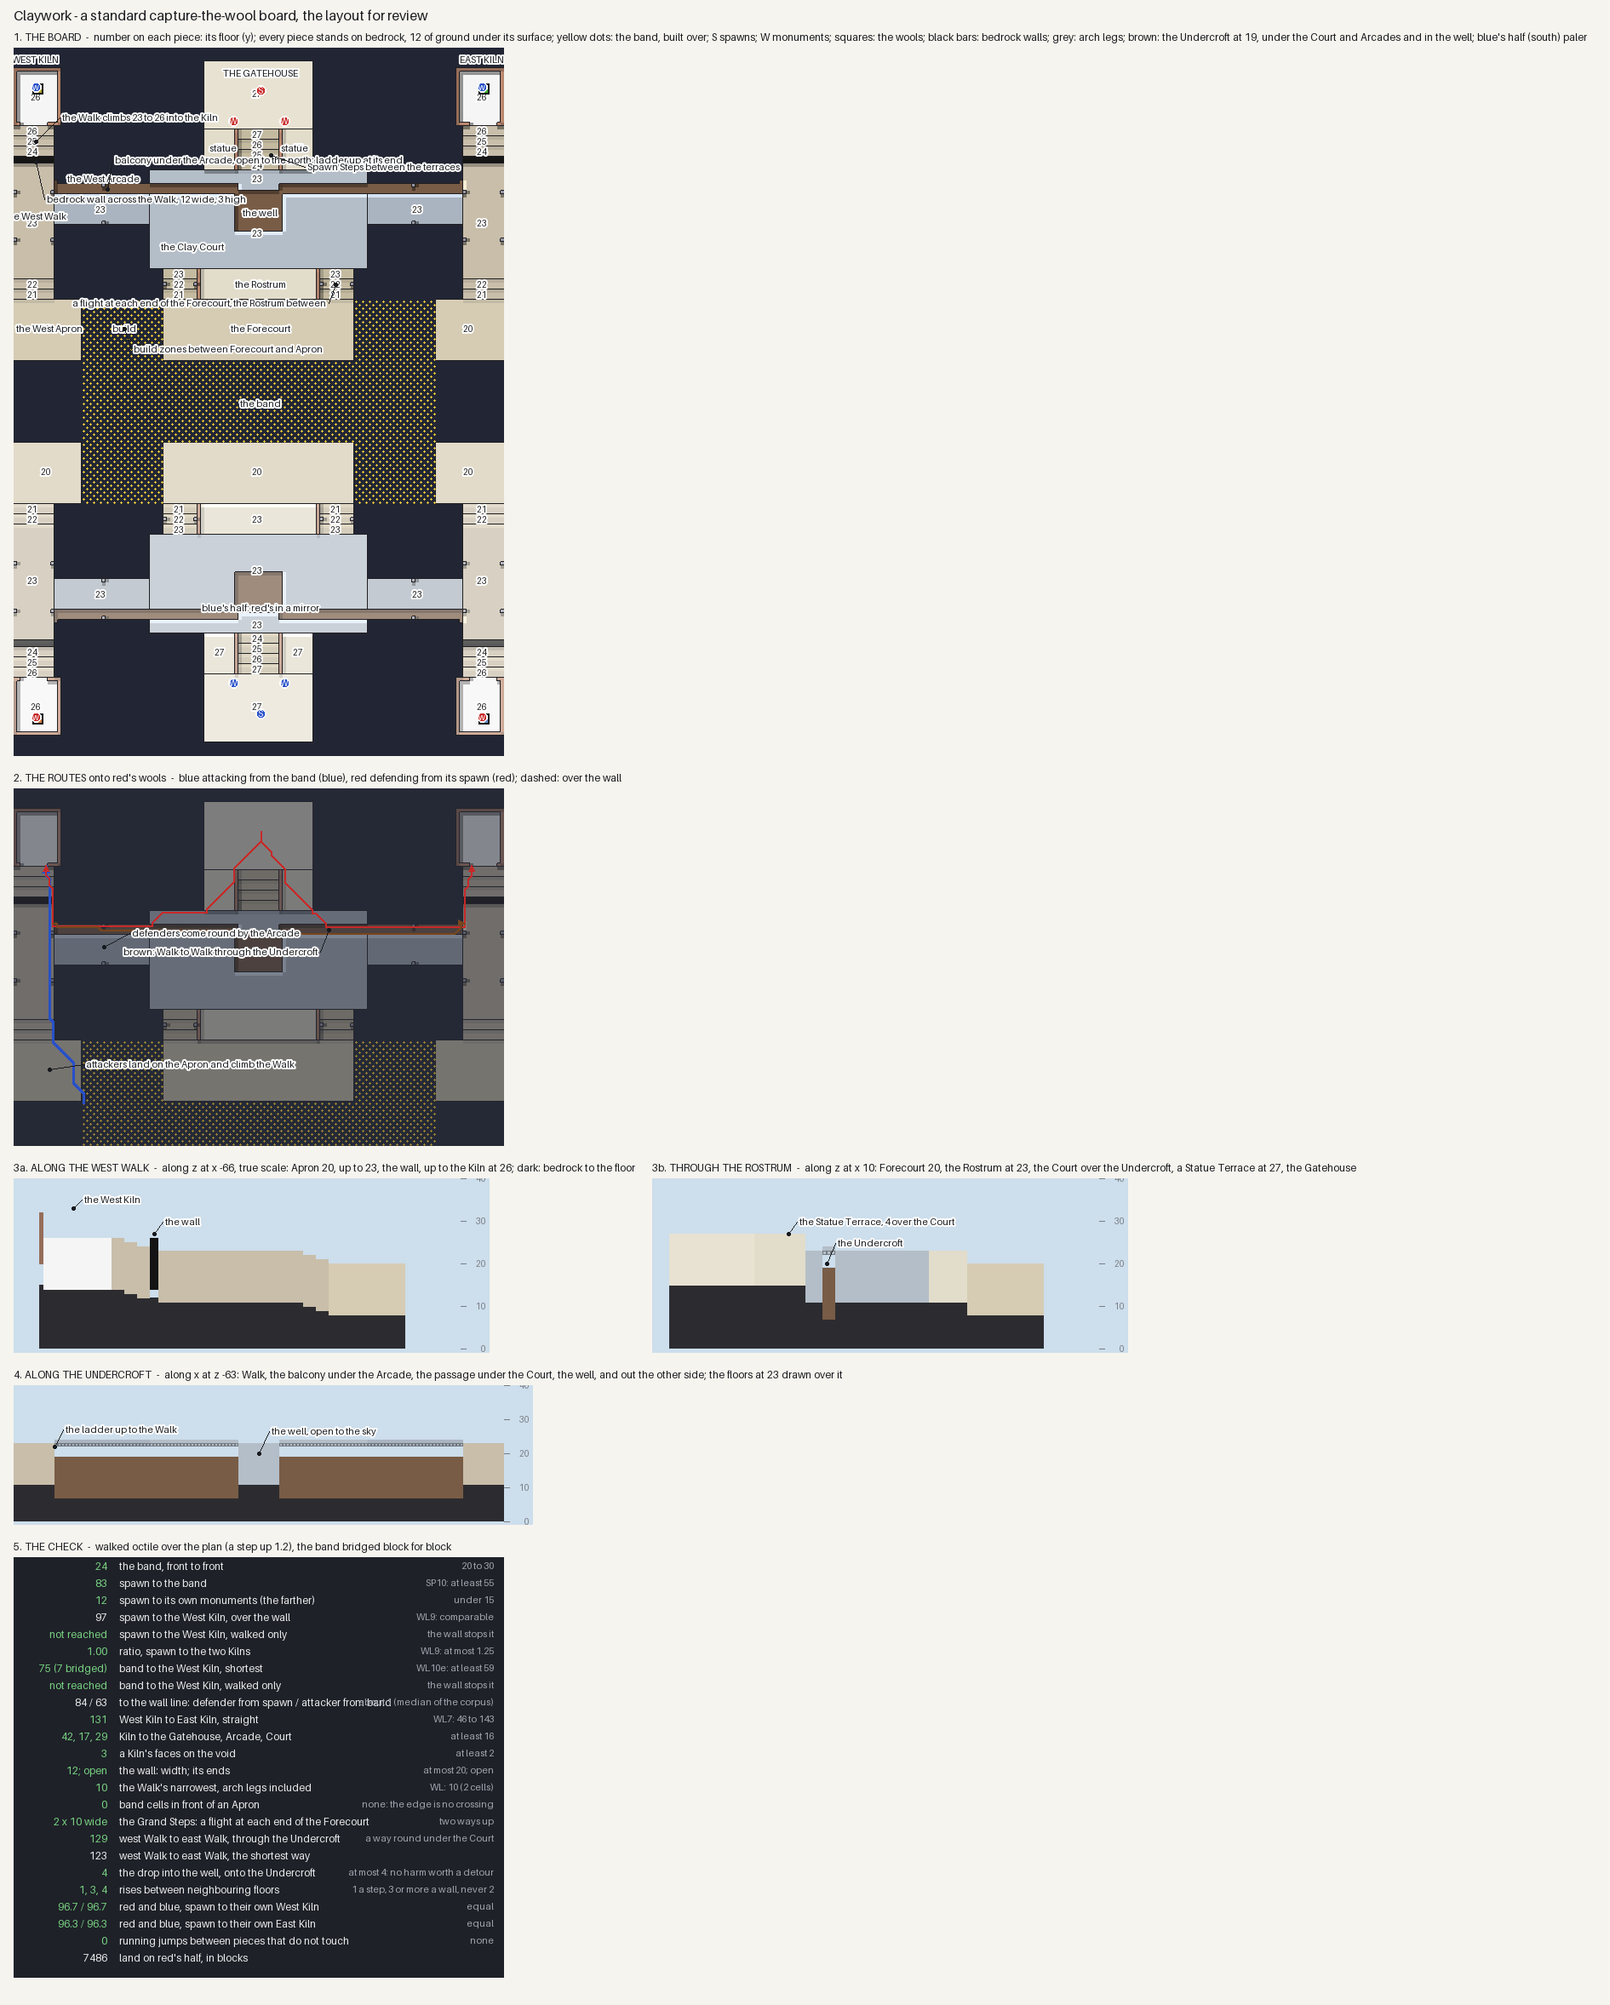
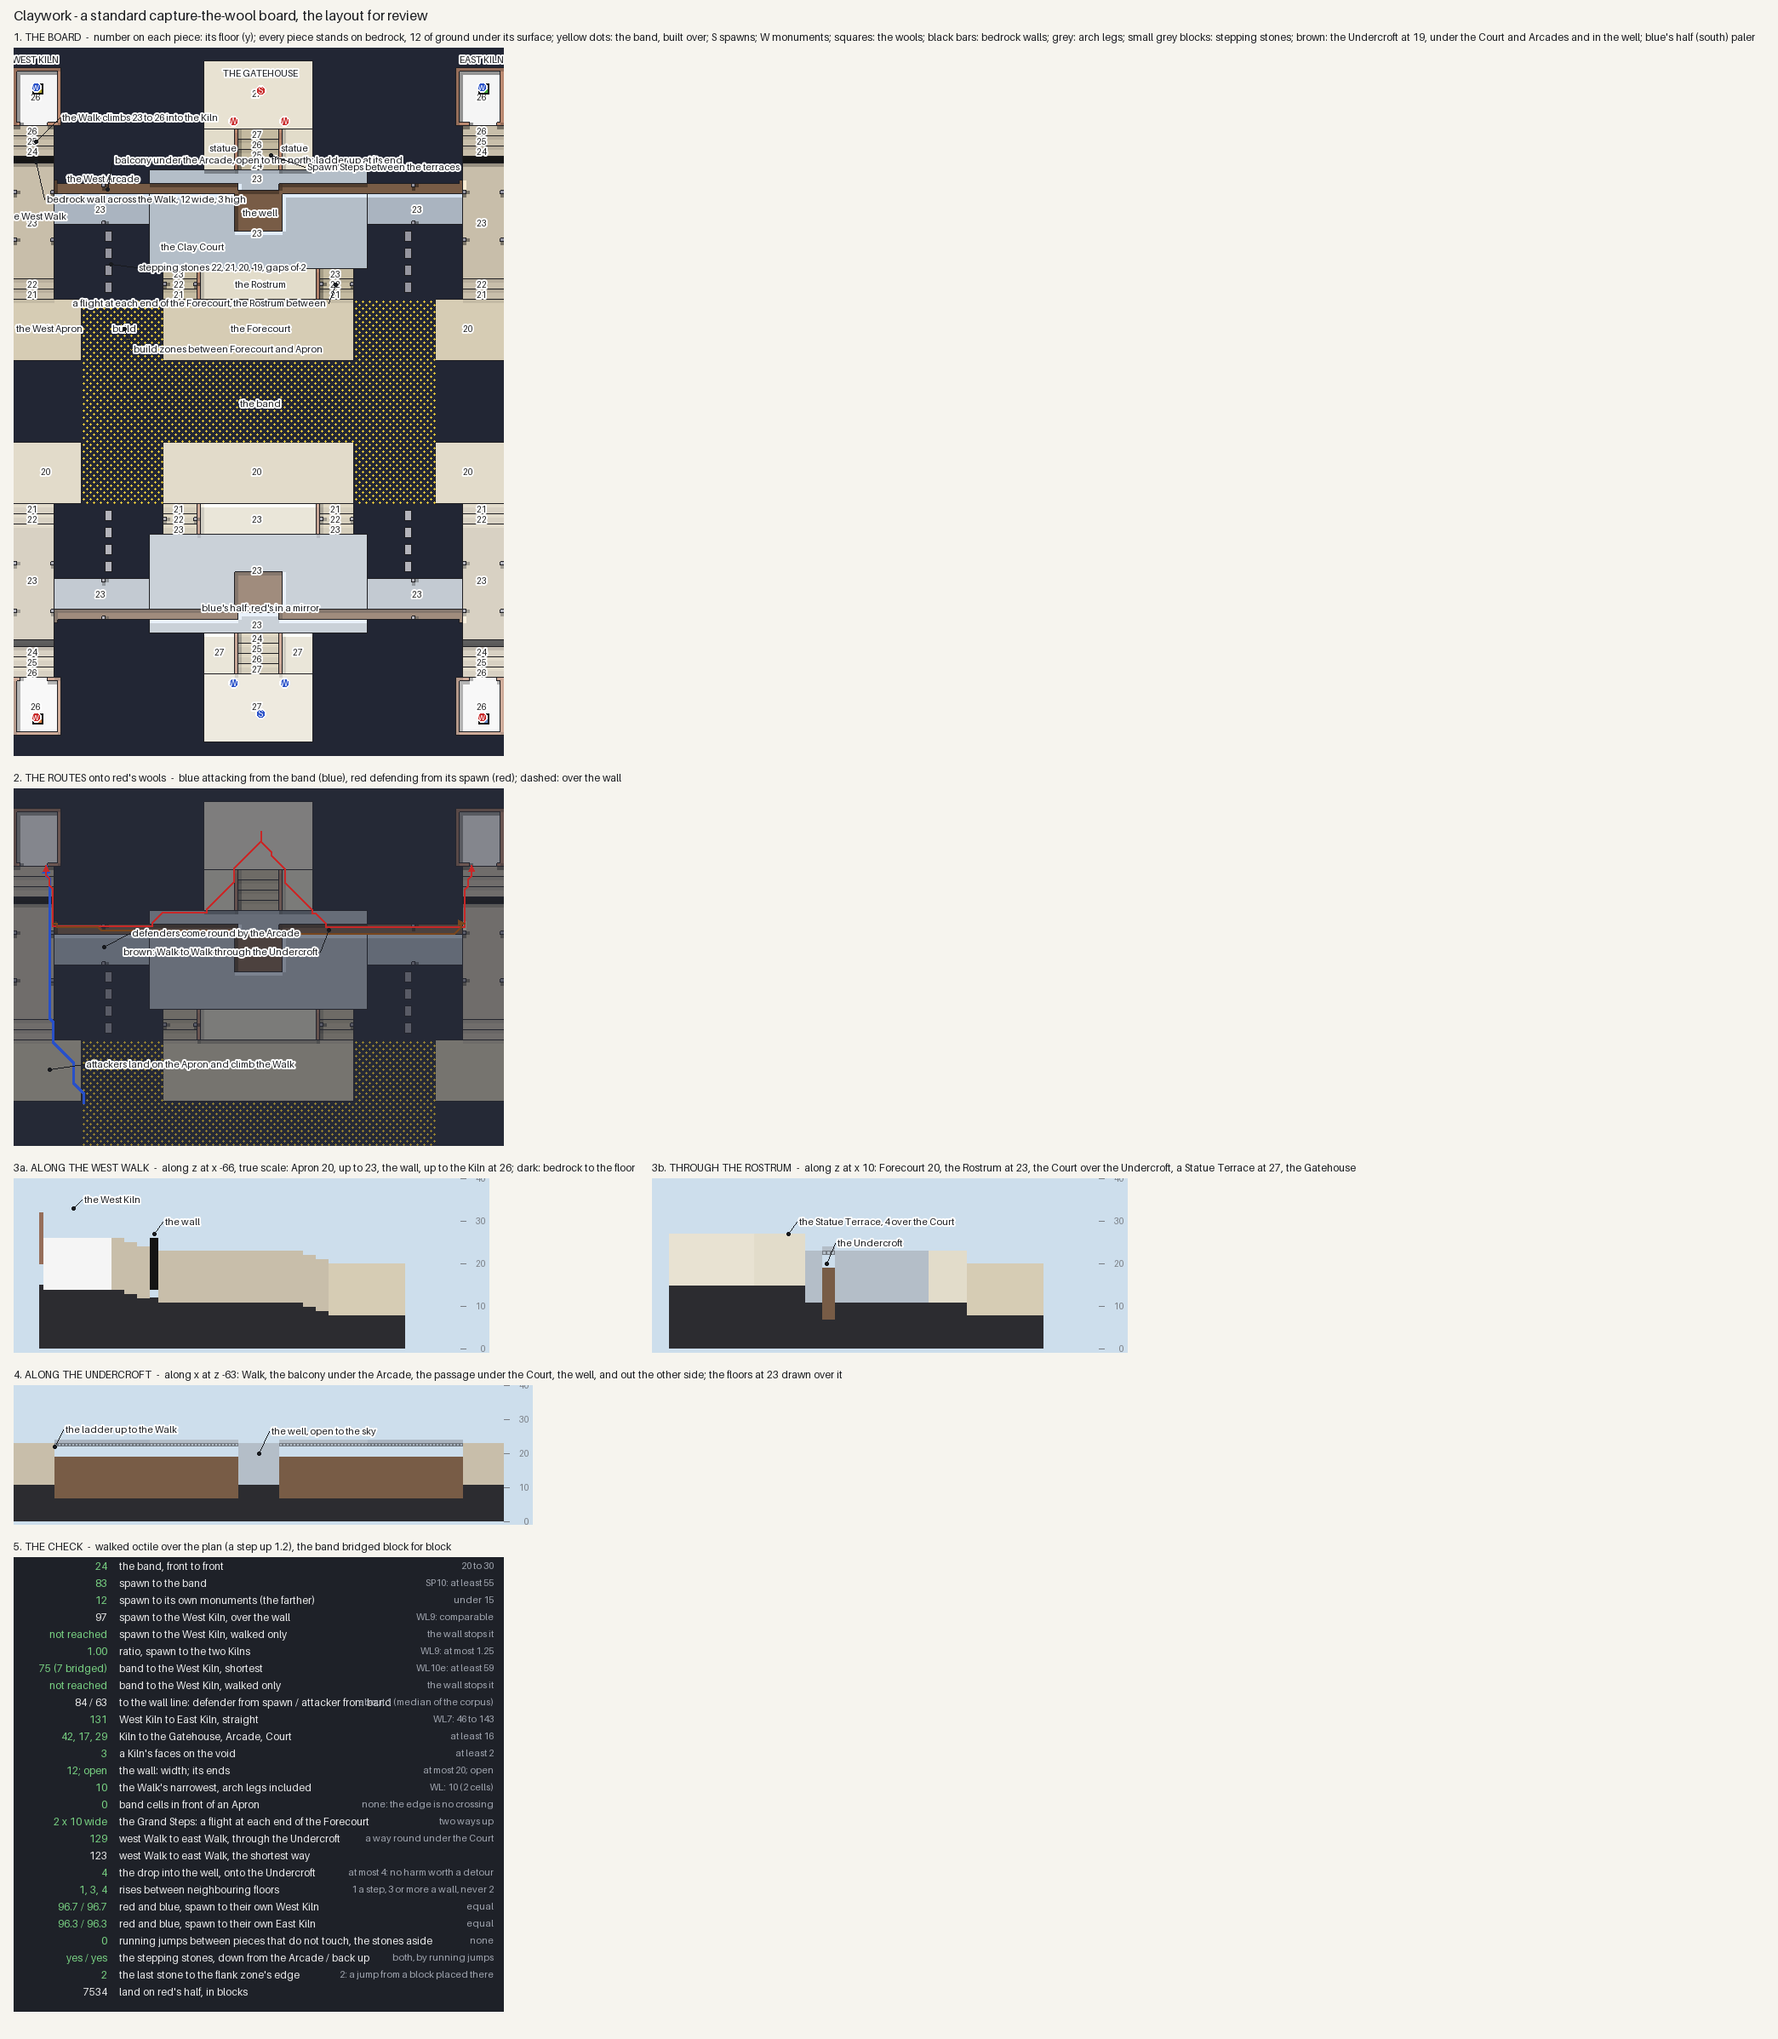
Claywork v4: stepping stones from each Arcade toward its flank zone
Four 2 x 3 stones in the void in front of each Arcade at 22, 21, 20, 19,
every gap two (the most a running jump one up clears), the last two short
of the flank zone; checked both ways by running jumps. The well stays a
way down only. v3 sketch kept.

Claude-Session: https://claude.ai/code/session_01JFykgZF2FRCqGGugXE9LUG

Changed region(s): [[0.0, 0.0, 0.7488, 0.9919]]

diff --git a/freeform/lib/boards/claywork/scripts/plan.py b/freeform/lib/boards/claywork/scripts/plan.py
@@ -87,7 +87,15 @@ ARCHES = [("the Grand Steps' arch", "x", (-28, -19), -35), ("the Walk's first ar
 BAND = (-52, -12, 51, 11)
 FLANK = (-52, -30, -29, -13)
 
-# the Undercroft: a floor UNDER under the Court and the Arcades; the well is its pit, open to the sky
+# the stepping stones: four in the void between each Arcade and the flank zone in front of it, two wide and a
+# tread deep, stepping down a level a stone (22, 21, 20, 19) toward the front as the Walk beside them does. Every
+# gap is two, the most a running jump one block up clears, so they are crossed both ways: an attacker's way back,
+# from a block placed at the zone's edge, two short of the last stone.
+STONES = [((-45, -50, -44, -48), 22), ((-45, -45, -44, -43), 21), ((-45, -40, -44, -38), 20),
+          ((-45, -35, -44, -33), 19)]
+
+# the Undercroft: a floor UNDER under the Court and the Arcades; the well is its pit, open to the sky, a way down
+# only: nothing climbs out of it but the ladders at the Walks
 UNDER = HUB - 4
 PASSAGE = (-60, -64, -7, -62)              # three wide, from the Arcade's far end to the well, under the floors
 LADDER = (-60, -65)                        # the landing past the Arcade's north edge; a ladder up the Walk's face
@@ -96,14 +104,14 @@ SPAWN_AT = (0, SPAWN + 1, -92)
 MONUMENTS = [(-8, -83), (7, -83)]          # red's two, on the Gatehouse's front edge, west and east
 OBSERVER_AT = (0, 50, 0)
 
-COLOURS = {"void": (34, 38, 52), "front": (214, 204, 180), "apron": (214, 204, 180), "rostrum": (226, 220, 202), "under": (120, 92, 70),
+COLOURS = {"void": (34, 38, 52), "front": (214, 204, 180), "apron": (214, 204, 180), "rostrum": (226, 220, 202), "under": (120, 92, 70), "stone": (150, 150, 160),
            "terrace": (226, 220, 202), "parapet": (150, 110, 90), "steps": (196, 186, 160),
            "hub": (180, 190, 200), "wing": (170, 180, 192), "walk": (200, 190, 170), "neck": (196, 186, 160),
            "spawn": (232, 226, 210), "kiln": (245, 245, 245), "kilnwall": (150, 110, 90),
            "barrier": (20, 20, 20), "arch": (120, 120, 130)}
-KINDS = ["void", "front", "rostrum", "apron", "terrace", "parapet", "under", "steps", "hub", "wing", "walk", "neck", "spawn", "kiln", "kilnwall",
+KINDS = ["void", "front", "rostrum", "apron", "terrace", "parapet", "under", "stone", "steps", "hub", "wing", "walk", "neck", "spawn", "kiln", "kilnwall",
          "barrier", "arch"]
-WALK_KINDS = {"front", "rostrum", "under", "terrace", "apron", "steps", "hub", "wing", "walk", "neck", "spawn", "kiln"}
+WALK_KINDS = {"front", "rostrum", "under", "stone", "terrace", "apron", "steps", "hub", "wing", "walk", "neck", "spawn", "kiln"}
 PLACES = [("THE GATEHOUSE", (0, -97)), ("statue", (-11, -75)), ("statue", (10, -75)), ("the Clay Court", (-20, -46)),
           ("the well", (0, -56)), ("the Rostrum", (0, -35)), ("the Forecourt", (0, -22)), ("build", (-40, -22)),
           ("the West Apron", (-62, -22)), ("the West Walk", (-66, -55)), ("the West Arcade", (-46, -66)),
@@ -150,6 +158,8 @@ def plan():
     _floor(R, (LADDER[0], LADDER[1], LADDER[0], LADDER[1]), UNDER, "under")
     x0, z0, x1, z1 = HOLE
     R.rect(x0, x1, z0, z1, UNDER, "under")
+    for box, h in STONES:
+        _floor(R, box, h, "stone")
     R.floor, R.piece = R.H.copy(), R.K.copy()
     # the Kilns' walls, all round but the door; a wall column stands to the roof
     for sign in (1, -1):

diff --git a/freeform/lib/boards/claywork/scripts/plan_check.py b/freeform/lib/boards/claywork/scripts/plan_check.py
@@ -149,7 +149,21 @@ def measure():
     # running jumps between pieces that do not touch
     J = G.jumps(R, P.WALK_KINDS, wall_kinds=("kilnwall", "arch", "barrier", "parapet"))
     lab, _ = ndimage.label(R.piece != R.kinds["void"])
-    apart = sum(1 for a, b, g in J if lab[R.ix(a[0]), R.iz(a[1])] != lab[R.ix(b[0]), R.iz(b[1])])
+    stone = R.mask("stone")
+    on_stone = lambda c: stone[R.ix(c[0]), R.iz(c[1])]
+    apart = sum(1 for a, b, g in J if lab[R.ix(a[0]), R.iz(a[1])] != lab[R.ix(b[0]), R.iz(b[1])]
+                and not (on_stone(a) or on_stone(b)))
+    # the stepping stones, walked with running jumps: down from the Arcade to the zone, and back up
+    Ej = G.graph(R, P.WALK_KINDS, wall_kinds=("kilnwall", "arch", "parapet"),
+                 rules=G.PlanRules(jumps=True, diagonals=True), bridge=P.band_mask(R), extra=P.ladders())
+    sx = P.STONES[0][0][0]
+    arcade_edge, last = (sx, P.PIECE["wing"][2][3]), (sx, P.STONES[-1][0][3])
+    only_stones = {a: [e for e in v if (on_stone(e[0]) or e[0] in (arcade_edge, last))]
+                   for a, v in Ej.items() if a in (arcade_edge, last) or (len(a) == 2 and on_stone(a))}
+    down = G.dijkstra(only_stones, [arcade_edge])[0].get(last)
+    up = G.dijkstra(only_stones, [last])[0].get(arcade_edge)
+    to_zone = P.FLANK[1] - P.STONES[-1][0][3] - 1
+    stone_jumps = sorted({g for a, b, g in J if on_stone(a) or on_stone(b)})
     land_red = int((land & (R.Z < 0)).sum())
 
     def fmt(d, b=0.0):
@@ -187,7 +201,11 @@ def measure():
          abs(s_w - blue_w) < 0.01),
         (f"{s_e:.1f} / {blue_e:.1f}", "red and blue, spawn to their own East Kiln", "equal",
          abs(s_e - blue_e) < 0.01),
-        (f"{apart}", "running jumps between pieces that do not touch", "none", apart == 0),
+        (f"{apart}", "running jumps between pieces that do not touch, the stones aside", "none", apart == 0),
+        (f"{'yes' if down else 'no'} / {'yes' if up else 'no'}", "the stepping stones, down from the Arcade / back up",
+         "both, by running jumps", bool(down and up)),
+        (f"{to_zone}", "the last stone to the flank zone's edge", "2: a jump from a block placed there",
+         to_zone <= 2),
         (f"{land_red}", "land on red's half, in blocks", "", None),
     ]
     paths = dict(spawn_west=s_w_path, spawn_east=s_e_path, band_west=b_w_path, undercroft=under_path)

diff --git a/freeform/lib/boards/claywork/scripts/sketch.py b/freeform/lib/boards/claywork/scripts/sketch.py
@@ -32,7 +32,7 @@ S = Sheet("Claywork - a standard capture-the-wool board, the layout for review")
 m = S.map(R.x_min, R.z_min, R.x_max, R.z_max, scale=4, title="THE BOARD",
           legend="number on each piece: its floor (y); every piece stands on bedrock, 12 of ground under its "
                  "surface; yellow dots: the band, built over; S spawns; W monuments; squares: the wools; "
-                 "black bars: bedrock walls; grey: arch legs; brown: the Undercroft at 19, under the Court and Arcades "
+                 "black bars: bedrock walls; grey: arch legs; small grey blocks: stepping stones; brown: the Undercroft at 19, under the Court and Arcades "
                  "and in the well; blue's half (south) paler")
 m.raster(R, P.COLOURS, image_half=blue_half)
 m.zone(P.band_mask(R), colour=(230, 200, 60), step=4)
@@ -49,6 +49,7 @@ m.callout(22, -35, "a flight at each end of the Forecourt, the Rostrum between",
 m.callout(-45, -63, "balcony under the Arcade, open to the north; ladder up at its end", dx=6, dz=-34)
 m.callout(3, -73, "Spawn Steps between the terraces", dx=40, dz=14)
 m.callout(-40, -22, "build zones between Forecourt and Apron", dx=8, dz=24)
+m.callout(-44, -41, "stepping stones 22, 21, 20, 19, gaps of 2", dx=30, dz=4)
 m.callout(-66, -77, "the Walk climbs 23 to 26 into the Kiln", dx=28, dz=-28)
 
 # 2. the routes onto red's west wool

diff --git a/freeform/lib/boards/claywork/PLAN.md b/freeform/lib/boards/claywork/PLAN.md
@@ -38,7 +38,8 @@ to the other's, so nothing is built out in front of an Apron and the board's edg
 Forecourt and each Apron lies a build zone the front's full depth, so the front line is joined only by building:
 less land, and more risk, on the way to a Walk.
 
-**The Undercroft is a second layer under the hub.** A player drops four into the well onto its floor at 19. A
+**The Undercroft is a second layer under the hub.** A player drops four into the well onto its floor at 19, and
+the well is a way down only: nothing climbs out of it but the ladders at the Walks. A
 passage three wide runs from the well under the Court and out under each Arcade as a balcony, open on the side
 facing the spawn, to a ladder up onto the Walk short of the wall. It is a quiet way from one wool to the other.
 
@@ -83,6 +84,10 @@ The Statue Terraces brought it from 90 against 58: a defender drops off a terrac
   parapet on each side over the steps.
 - **The Forecourt** (20): the middle of the front, 56 by 18, on the band.
 - **The flank zones**: 24 by 18 of void between the Forecourt and each Apron, built over.
+- **The stepping stones**: four in the void in front of each Arcade, two wide and three deep, at 22, 21, 20 and
+  19, following the Walk down toward the front. Every gap is two, the most a running jump one block up clears, so
+  they are crossed both ways. The last stands two short of the flank zone, a jump from a block placed at its edge:
+  mostly an attacker's way back.
 - **The West and East Aprons** (20): the front's flanks, 20 by 18, each the foot of a Walk, with no band before
   them.
 - **The West and East Arcades** (23): from the Court to the Walks, 28 by 12, an arch across each.
@@ -143,3 +148,9 @@ and the Court only, two blocks high, never on a Walk or an Arcade.
 - **The Grand Steps moved out to the Forecourt's ends,** and the Rostrum took the middle where the flights were.
 - **The well became the way into the Undercroft,** a second layer under the Court and the Arcades: a rotation
   from one wool to the other that is hidden but not sealed, open toward the spawn under each Arcade.
+
+## What changed after the third review
+
+**The third layout is kept as `renders/00-plan-sketch-v3.png`.** The well stays a way down only. Four stepping
+stones now cross the void in front of each Arcade, stepping down toward the flank zone, every gap two so a
+running jump clears it upward.
